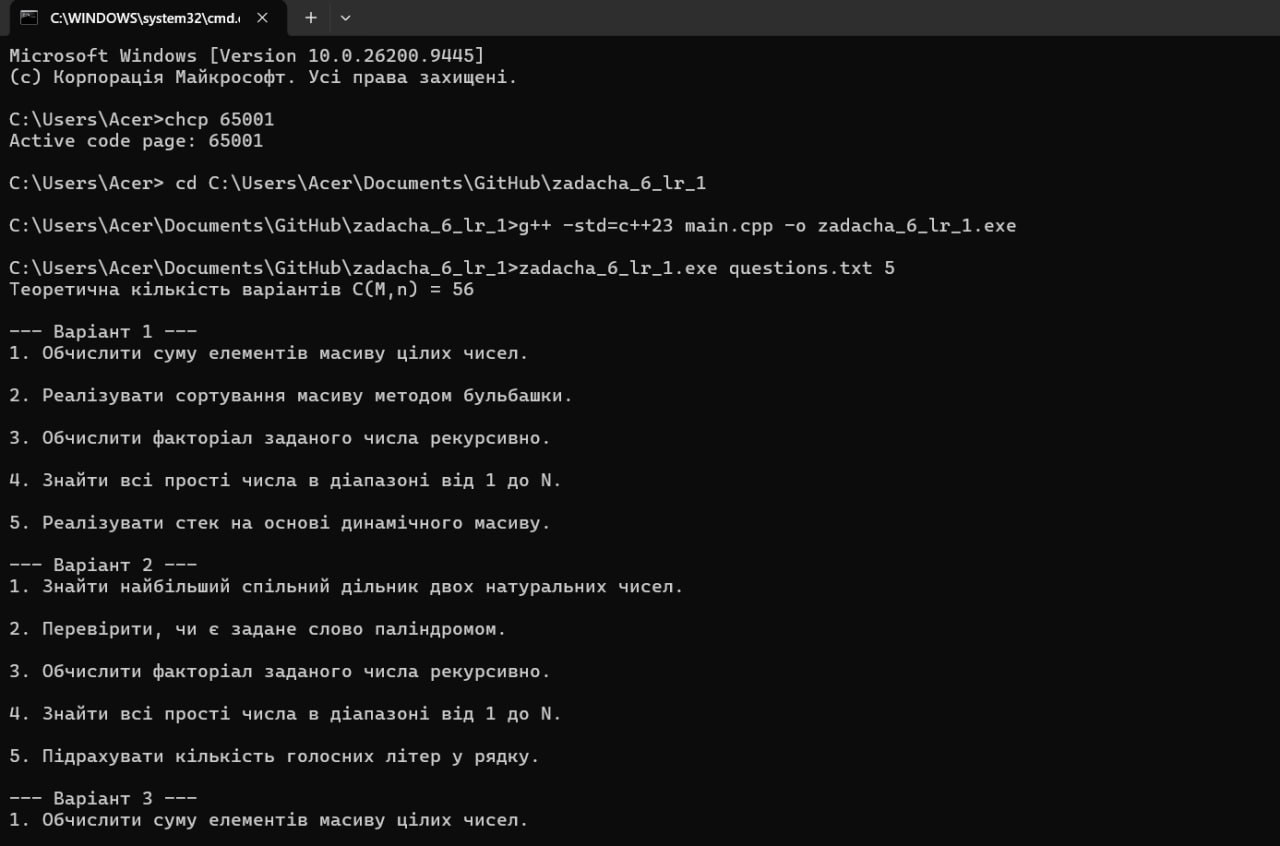
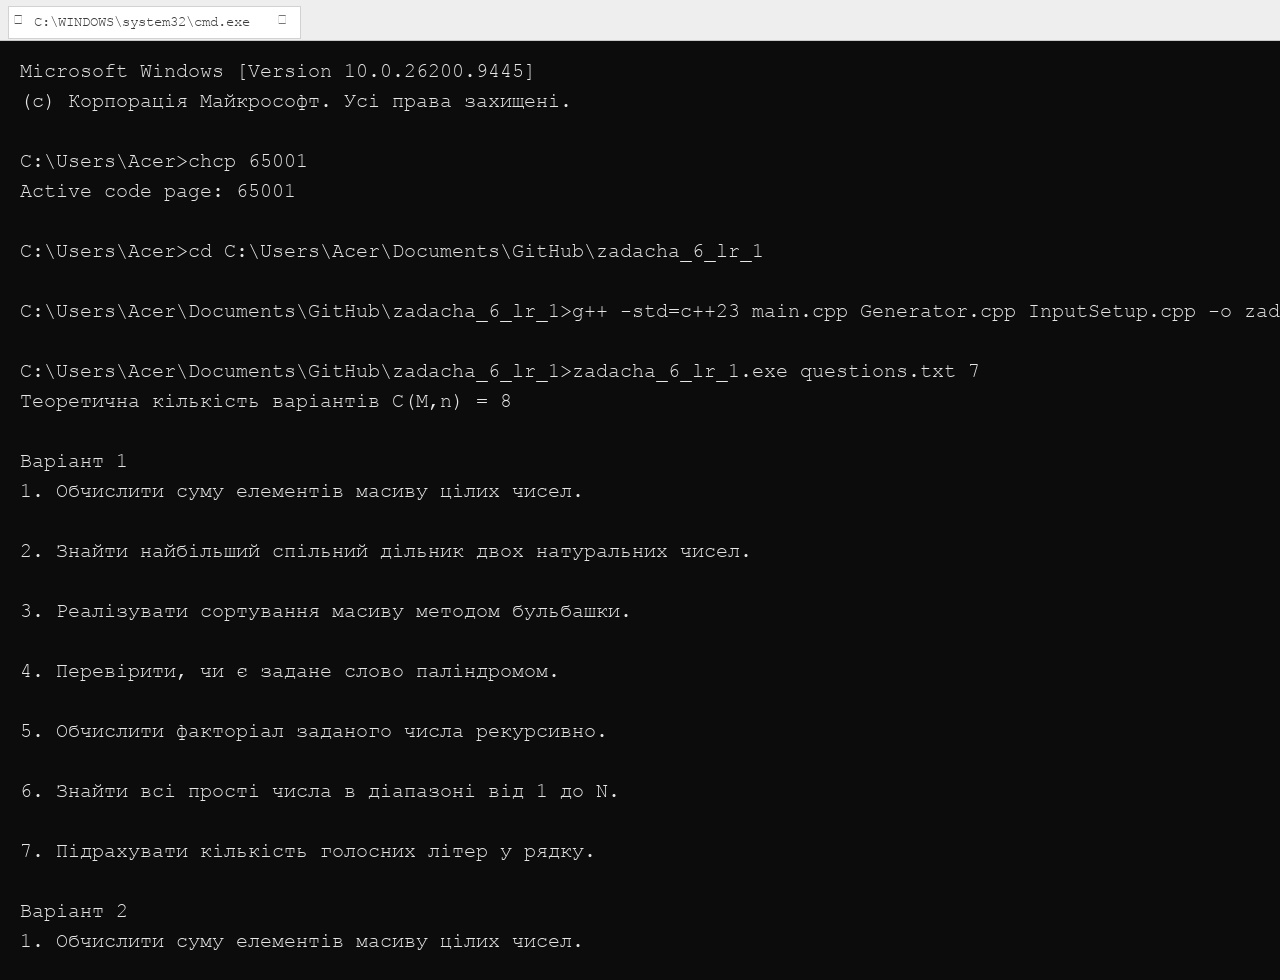
- refactored main.cpp - added "розподіл обов'язків" - updated output screenshots - added InputSetup.cpp, InputSetup.h

diff --git a/main.cpp b/main.cpp
@@ -1,64 +1,34 @@
 // Dmytro Demchuk K-25 & Polina Harchenko K-28
-// GCC 13+ (g++ -std=c++23) | MSVC v19.36+ (/std:c++latest)
+// GCC 13+ | MSVC v19.36+
 
 #include "Generator.h"
+#include "InputSetup.h"
 #include <iostream>
-#include <fstream>
-#include <string>
+
+#ifdef _WIN32
+#include <cstdlib>
+#endif
 
 using namespace std;
 
-static bool fileExists(const string& name) {
-    return ifstream(name).good();
-}
-
-static void buildFile(const string& name, unsigned long long M) {
-    ofstream out(name);
-    for (unsigned long long i = 1; i <= M; ++i)
-        out << "Питання номер " << i << "." << (i < M ? "\n\n" : "");
-}
-
 int main(int argc, char* argv[]) {
+#ifdef _WIN32
     system("chcp 65001 > nul");
-    string filename;
-    unsigned long long n = 0;
-    bool experiment = true;
+#endif
 
-    if (argc >= 3 && fileExists(argv[1])) {
-        filename = argv[1];
-        n = stoull(argv[2]);
-        experiment = false;
-    } else {
-        unsigned long long M = 0;
-        if (argc >= 3) {
-            M = stoull(argv[1]);
-            n = stoull(argv[2]);
-        } else {
-            cout << "M (розмір бази питань): ";
-            if (!(cin >> M)) {
-                cerr << "Помилка введення M\n";
-                return 1;
-            }
-            cout << "n (питань у варіанті): ";
-            if (!(cin >> n)) {
-                cerr << "Помилка введення n\n";
-                return 1;
-            }
-        }
-        filename = "output.txt";
-        buildFile(filename, M);
-        cout << "Файл \"" << filename << "\" з " << M << " питань створено.\n";
-    }
+    RunConfig config;
+    if (!prepareInput(argc, argv, config))
+        return 1;
 
     try {
-        Generator gen(filename, n);
+        Generator gen(config.filename, config.n);
         cout << "Теоретична кількість варіантів C(M,n) = " << gen.total() << "\n\n";
 
-        if (!experiment) {
+        if (!config.experiment) {
             int i = 1;
             for (;;) {
                 string variant = gen();
-                cout << "--- Варіант " << i++ << " ---\n" << variant << "\n\n";
+                cout << "Варіант " << i++ << " \n" << variant << "\n\n";
             }
         }
         unsigned long long count = 0;
@@ -70,7 +40,7 @@ int main(int argc, char* argv[]) {
         } catch (const NoMoreVariants&) {}
 
         cout << "Згенеровано: " << count
-             << (count == gen.total() ? " -- збігається з C(M,n)\n" : " -- не збігається!\n");
+             << (count == gen.total() ? " - збігається з C(M,n)\n" : " - не збігається!\n");
     } catch (const NoMoreVariants& e) {
         cout << e.what() << "\n";
     } catch (const exception& e) {

diff --git a/Generator.h b/Generator.h
@@ -3,8 +3,6 @@
 #include <vector>
 #include <set>
 #include <random>
-#include <fstream>
-#include <sstream>
 #include <stdexcept>
 #include <functional>
 #include <compare>
@@ -20,6 +18,7 @@ struct Variants {
 struct NoMoreVariants : runtime_error {
     NoMoreVariants() : runtime_error("Усі унікальні варіанти вже згенеровано") {}
 };
+
 class Generator {
     vector<string> q;
     size_t n;
@@ -27,75 +26,10 @@ class Generator {
     set<Variants, less<Variants>> used;
     mt19937 rng{random_device{}()};
 
-    static unsigned long long C(unsigned long long M, unsigned long long n) {
-        if (n > M) return 0;
-        n = min(n, M - n);
-        unsigned long long r = 1;
-        for (unsigned long long i = 1; i <= n; ++i) {
-            r = r * (M - n + i) / i;
-        }
-        return r;
-    }
+    static unsigned long long C(unsigned long long M, unsigned long long n);
 
 public:
-    Generator(const string& filename, size_t tasksCount) {
-        this->n = tasksCount;
-        ifstream in(filename);
-        if (!in)
-            throw runtime_error("Не вдалося відкрити файл " + filename);
-
-        string line, para;
-
-        auto flush = [&para, this]() {
-            if (!para.empty()) {
-                q.push_back(para);
-                para.clear();
-            }
-        };
-
-        auto isBlank = [](const string& s) {
-            return s.find_first_not_of(" \t\r") == string::npos;
-        };
-
-        while (getline(in, line)) {
-            if (isBlank(line))
-                flush();
-            else
-                para += (para.empty() ? "" : "\n") + line;
-        }
-        flush();
-
-        if (q.empty())
-            throw runtime_error("У файлі немає жодного питання");
-        if (n == 0 || n > q.size())
-            throw invalid_argument("n має бути в межах 1.." + to_string(q.size()));
-    }
-    unsigned long long total() const {
-        return C(q.size(), n);
-    }
-    string operator()() {
-        if (used.size() >= total())
-            throw NoMoreVariants();
-
-        uniform_int_distribution<size_t> dist(0, q.size() - 1);
-        Variants ticket;
-
-        do {
-            ticket.indices.clear();
-            while (ticket.indices.size() < n) {
-                ticket.indices.insert(dist(rng));
-            }
-        } while (used.contains(ticket));
-
-        used.insert(ticket);
-
-        ostringstream out;
-        size_t k = 0;
-        for (auto idx : ticket.indices) {
-            ++k;
-            out << k << ". " << q[idx] << (k < ticket.indices.size() ? "\n\n" : "");
-        }
-        return out.str();
-
-    }
+    Generator(const string& filename, size_t tasksCount);
+    unsigned long long total() const;
+    string operator()();
 };

diff --git a/InputSetup.cpp b/InputSetup.cpp
@@ -1,0 +1,74 @@
+#include "InputSetup.h"
+#include <fstream>
+#include <iostream>
+#include <stdexcept>
+
+using namespace std;
+
+namespace {
+    bool fileExists(const string& name) {
+        return ifstream(name).good();
+    }
+
+    void buildFile(const string& name, unsigned long long M) {
+        ofstream out(name);
+        if (!out)
+            throw runtime_error("Не вдалося створити файл " + name);
+        for (unsigned long long i = 1; i <= M; ++i)
+            out << "Питання номер " << i << "." << (i < M ? "\n\n" : "");
+    }
+    bool parseNumber(const string& text, unsigned long long& value, const string& label) {
+        if (text.find('-') != string::npos) {
+            cerr << "Помилка: " << label << " не може бути від'ємним\n";
+            return false;
+        }
+        try {
+            size_t pos = 0;
+            value = stoull(text, &pos);
+            if (pos != text.size())
+                throw invalid_argument(text);
+        } catch (const exception&) {
+            cerr << "Помилка: некоректне значення " << label << " = \"" << text << "\"\n";
+            return false;
+        }
+        return true;
+    }
+}
+
+bool prepareInput(int argc, char* argv[], RunConfig& config) {
+    if (argc >= 3 && fileExists(argv[1])) {
+        if (!parseNumber(argv[2], config.n, "n"))
+            return false;
+        config.filename = argv[1];
+        config.experiment = false;
+        return true;
+    }
+
+    unsigned long long M = 0;
+    if (argc >= 3) {
+        if (!parseNumber(argv[1], M, "M") || !parseNumber(argv[2], config.n, "n"))
+            return false;
+    } else {
+        cout << "M (розмір бази питань): ";
+        if (!(cin >> M)) {
+            cerr << "Помилка введення M\n";
+            return false;
+        }
+        cout << "n (питань у варіанті): ";
+        if (!(cin >> config.n)) {
+            cerr << "Помилка введення n\n";
+            return false;
+        }
+    }
+
+    config.filename = "output.txt";
+    try {
+        buildFile(config.filename, M);
+    } catch (const exception& e) {
+        cerr << "Помилка: " << e.what() << "\n";
+        return false;
+    }
+    cout << "Файл \"" << config.filename << "\" з " << M << " питань створено.\n";
+    config.experiment = true;
+    return true;
+}

diff --git a/Generator.cpp b/Generator.cpp
@@ -1,0 +1,75 @@
+#include "Generator.h"
+#include <fstream>
+#include <sstream>
+
+unsigned long long Generator::C(unsigned long long M, unsigned long long n) {
+    if (n > M) return 0;
+    n = min(n, M - n);
+    unsigned long long r = 1;
+    for (unsigned long long i = 1; i <= n; ++i) {
+        r = r * (M - n + i) / i;
+    }
+    return r;
+}
+
+Generator::Generator(const string& filename, size_t tasksCount) {
+    this->n = tasksCount;
+    ifstream in(filename);
+    if (!in)
+        throw runtime_error("Не вдалося відкрити файл " + filename);
+
+    string line, para;
+
+    auto flush = [&para, this]() {
+        if (!para.empty()) {
+            q.push_back(para);
+            para.clear();
+        }
+    };
+
+    auto isBlank = [](const string& s) {
+        return s.find_first_not_of(" \t\r") == string::npos;
+    };
+
+    while (getline(in, line)) {
+        if (isBlank(line))
+            flush();
+        else
+            para += (para.empty() ? "" : "\n") + line;
+    }
+    flush();
+
+    if (q.empty())
+        throw runtime_error("У файлі немає жодного питання");
+    if (n == 0 || n > q.size())
+        throw invalid_argument("n має бути в межах 1.." + to_string(q.size()));
+}
+
+unsigned long long Generator::total() const {
+    return C(q.size(), n);
+}
+
+string Generator::operator()() {
+    if (used.size() >= total())
+        throw NoMoreVariants();
+
+    uniform_int_distribution<size_t> dist(0, q.size() - 1);
+    Variants ticket;
+
+    do {
+        ticket.indices.clear();
+        while (ticket.indices.size() < n) {
+            ticket.indices.insert(dist(rng));
+        }
+    } while (used.contains(ticket));
+
+    used.insert(ticket);
+
+    ostringstream out;
+    size_t k = 0;
+    for (auto idx : ticket.indices) {
+        ++k;
+        out << k << ". " << q[idx] << (k < ticket.indices.size() ? "\n\n" : "");
+    }
+    return out.str();
+}

diff --git a/InputSetup.h b/InputSetup.h
@@ -1,0 +1,10 @@
+#pragma once
+#include <string>
+
+struct RunConfig {
+    std::string filename;
+    unsigned long long n = 0;
+    bool experiment = true;
+};
+
+bool prepareInput(int argc, char* argv[], RunConfig& config);

diff --git a/README.md b/README.md
@@ -1,0 +1,34 @@
+# Генератор варіантів (ЛР №6)
+
+Генерує унікальні набори з `n` питань із бази питань розміром `M`, без повторів між варіантами.
+
+## Структура
+
+- `Generator.h` / `Generator.cpp` - клас `Generator`: читання питань, підрахунок кількості сполучень `C(M, n)`, генерація унікальних варіантів.
+- `InputSetup.h` / `InputSetup.cpp` - розбір аргументів командного рядка / інтерактивне введення, побудова тестового файлу питань.
+- `main.cpp` - точка входу.
+
+## Збірка
+
+**Linux / macOS (g++):**
+```bash
+g++ -std=c++23 main.cpp Generator.cpp InputSetup.cpp -o zadacha_6_lr_1
+```
+
+**Windows (MSVC):**
+```bat
+cl /std:c++latest /EHsc main.cpp Generator.cpp InputSetup.cpp /Fe:zadacha_6_lr_1.exe
+```
+
+**Windows (MinGW g++):**
+```bash
+g++ -std=c++23 main.cpp Generator.cpp InputSetup.cpp -o zadacha_6_lr_1.exe
+```
+
+## Запуск
+
+- `./zadacha_6_lr_1` (Windows: `zadacha_6_lr_1.exe`) - інтерактивно запитує `M` і `n`, генерує `output.txt` та порівнює кількість унікальних варіантів із теоретичним `C(M, n)`.
+- `./zadacha_6_lr_1 5 2` - те саме, але `M` і `n` передані аргументами.
+- `./zadacha_6_lr_1 questions.txt 2` - використати наявний файл питань і вивести всі унікальні варіанти по `n` питань.
+
+Питання у файлі відокремлюються порожнім рядком.
